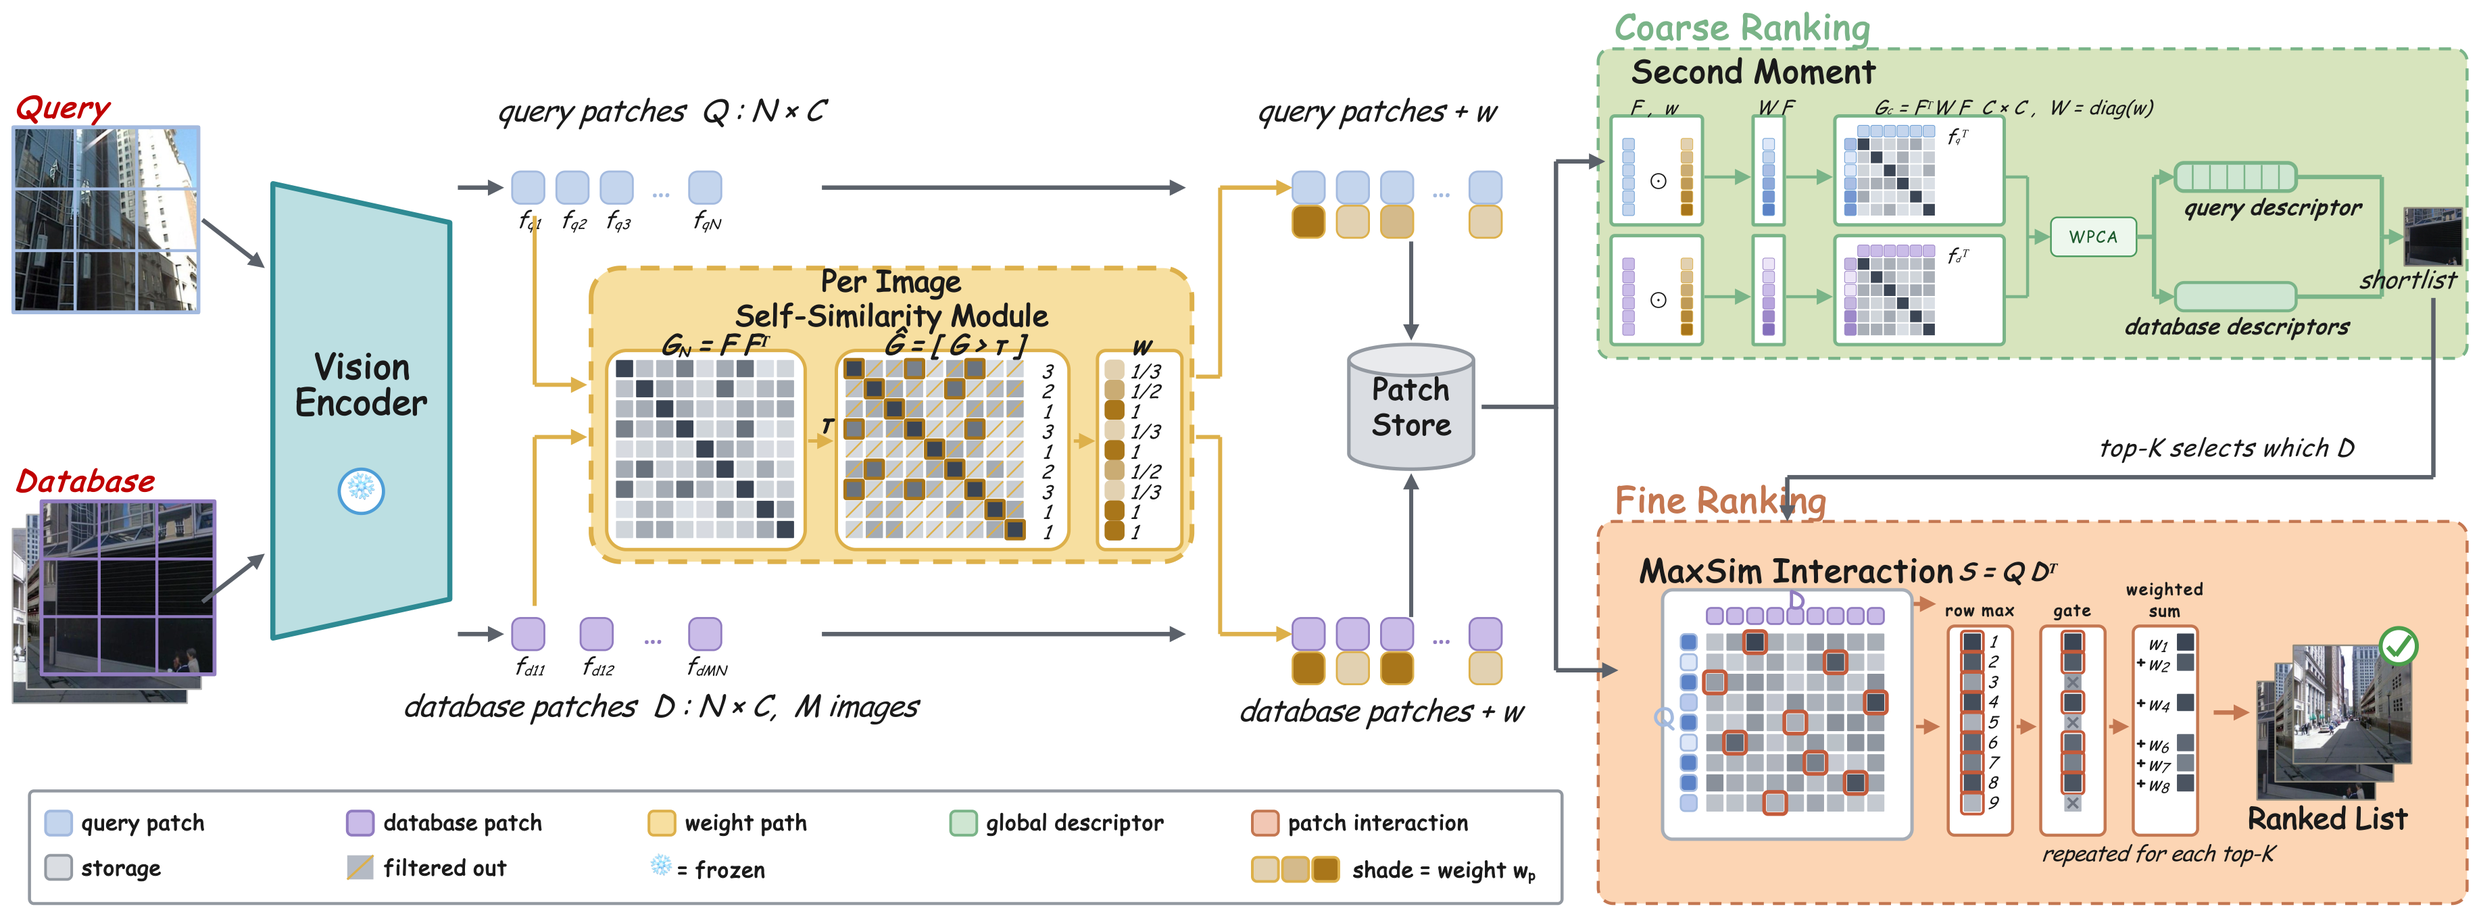
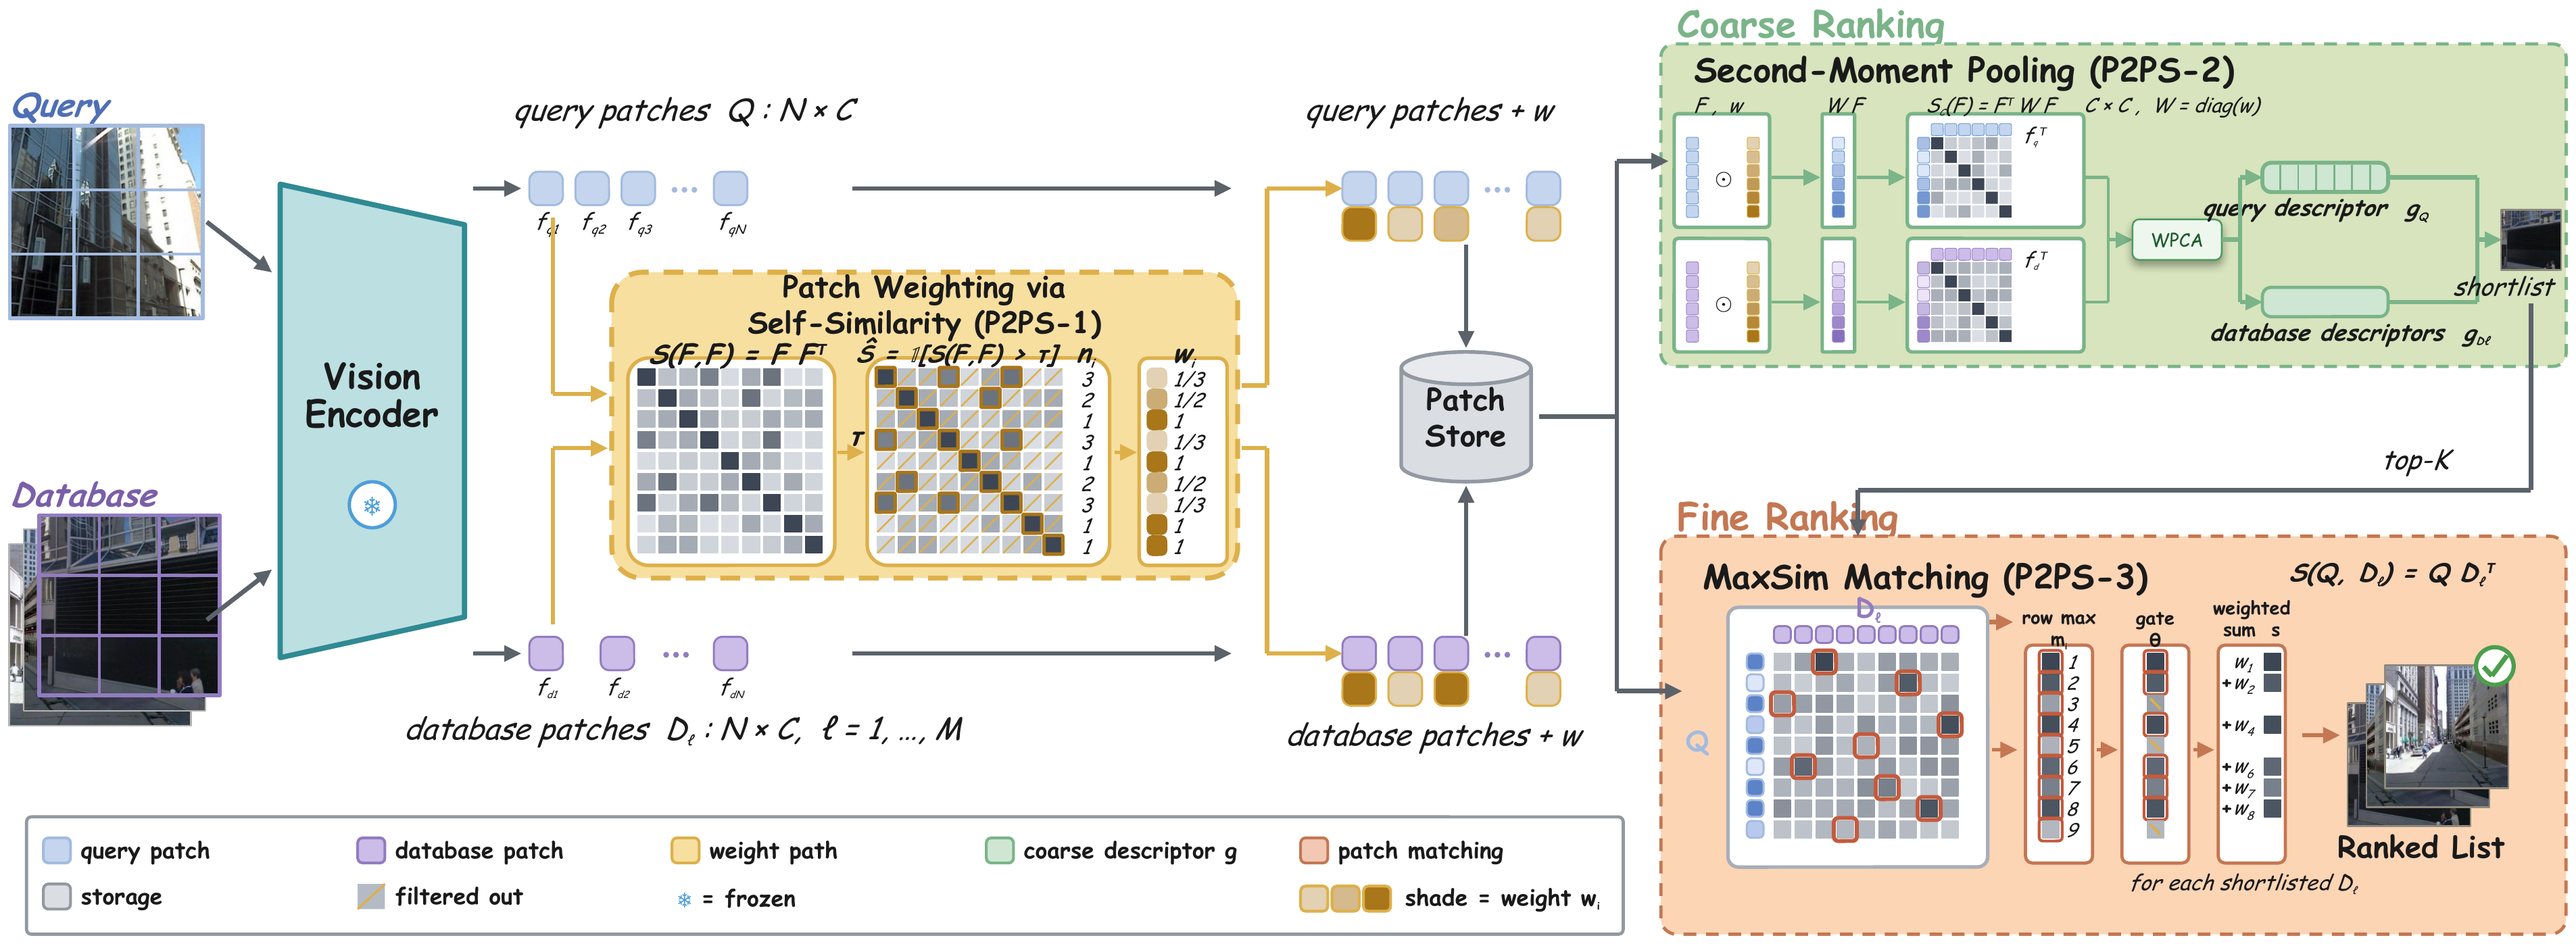
Figure 2: labels aligned with the method notation (S(F,F), Ŝ, n_i, S_C(F), S(Q,D_l), P2PS-1/2/3 tags, colours); caption rewritten, no bold title; 'interactions' -> 'correlations'

diff --git a/notes/new2/03_method_new2.tex b/notes/new2/03_method_new2.tex
@@ -74,7 +74,7 @@
 \begin{figure}[!htb]
 \centering
 \includegraphics[width=0.92\textwidth]{figures/method_fig_ppt.png}
-\caption{\textbf{Overview of the proposed method.} Each image is partitioned into patches, whose features are extracted by a frozen vision encoder. The patch-to-patch similarity (P2PS) template is applied in three forms: P2PS-1 computes the self-similarity of each image to obtain its patch weights; P2PS-2 pools the weighted patch features into a second-moment descriptor for coarse ranking; P2PS-3 performs \textsc{MaxSim} matching between the query and the top-$K$ candidates for fine ranking.}
+\caption{Overview of the proposed method. Each image is partitioned into patches, whose features are extracted by a frozen vision encoder, and the patch-to-patch similarity (P2PS) template is applied in three forms. P2PS-1 computes the self-similarity of each image, which gives the weight of every patch; features and weights are computed once and stored for both stages. P2PS-2 pools the weighted patch features into a second-moment matrix, reduced by whitened PCA to one descriptor per image, and coarse ranking shortlists the $K$ nearest database images. P2PS-3 performs weighted \textsc{MaxSim} matching between the query and each shortlisted image, and fine ranking sorts the shortlist by the matching score.}
 \label{fig:method}
 \end{figure}
 
@@ -121,7 +121,7 @@ Two-stage retrieval is standard in VPR \citep{patchnetvlad,r2former,selavpr}, bu
 
 \paragraph{Coarse Ranking (P2PS-2).}
 \label{sec:global}
-During coarse ranking, the query is compared with the whole database $\mathcal D$ to obtain the $K$ most similar images, the shortlist, which requires a compact descriptor for every image. We obtain this descriptor by weighted second-moment pooling of the patch features, the bilinear pooling of \citet{bcnn}, which captures pairwise interactions between feature channels. Given the patch feature matrix $F$ of an image and its patch weights $\mathbf w$ from P2PS-1, Eq.~(\ref{eq:weight}), let $W=\mathrm{diag}(\mathbf w)$. Setting $A=B=(W^{1/2}F)^{\top}$ in Eq.~(\ref{eq:p2ps}), that is, applying the P2PS template along the channel dimension of the weighted patch features, gives the $C\times C$ second-moment matrix of the image, denoted $S_C(F)$,
+During coarse ranking, the query is compared with the whole database $\mathcal D$ to obtain the $K$ most similar images, the shortlist, which requires a compact descriptor for every image. We obtain this descriptor by weighted second-moment pooling of the patch features, the bilinear pooling of \citet{bcnn}, which captures pairwise correlations between feature channels. Given the patch feature matrix $F$ of an image and its patch weights $\mathbf w$ from P2PS-1, Eq.~(\ref{eq:weight}), let $W=\mathrm{diag}(\mathbf w)$. Setting $A=B=(W^{1/2}F)^{\top}$ in Eq.~(\ref{eq:p2ps}), that is, applying the P2PS template along the channel dimension of the weighted patch features, gives the $C\times C$ second-moment matrix of the image, denoted $S_C(F)$,
 \begin{equation}\label{eq:gc}
   S_C(F)=S\big((W^{1/2}F)^{\top},(W^{1/2}F)^{\top}\big)=F^{\top}WF=\sum_{i=1}^{N} w_i\,\mathbf f_i\mathbf f_i^{\top}.
 \end{equation}

diff --git a/sections/03_method.tex b/sections/03_method.tex
@@ -4,7 +4,7 @@
 \begin{figure}[!htb]
 \centering
 \includegraphics[width=0.92\textwidth]{figures/method_fig_ppt.png}
-\caption{\textbf{Overview of the proposed method.} Each image is partitioned into patches, whose features are extracted by a frozen vision encoder. The patch-to-patch similarity (P2PS) template is applied in three forms: P2PS-1 computes the self-similarity of each image to obtain its patch weights; P2PS-2 pools the weighted patch features into a second-moment descriptor for coarse ranking; P2PS-3 performs \textsc{MaxSim} matching between the query and the top-$K$ candidates for fine ranking.}
+\caption{Overview of the proposed method. Each image is partitioned into patches, whose features are extracted by a frozen vision encoder, and the patch-to-patch similarity (P2PS) template is applied in three forms. P2PS-1 computes the self-similarity of each image, which gives the weight of every patch; features and weights are computed once and stored for both stages. P2PS-2 pools the weighted patch features into a second-moment matrix, reduced by whitened PCA to one descriptor per image, and coarse ranking shortlists the $K$ nearest database images. P2PS-3 performs weighted \textsc{MaxSim} matching between the query and each shortlisted image, and fine ranking sorts the shortlist by the matching score.}
 \label{fig:method}
 \end{figure}
 
@@ -51,7 +51,7 @@ Two-stage retrieval is standard in VPR \citep{patchnetvlad,r2former,selavpr}, bu
 
 \paragraph{Coarse Ranking (P2PS-2).}
 \label{sec:global}
-During coarse ranking, the query is compared with the whole database $\mathcal D$ to obtain the $K$ most similar images, the shortlist, which requires a compact descriptor for every image. We obtain this descriptor by weighted second-moment pooling of the patch features, the bilinear pooling of \citet{bcnn}, which captures pairwise interactions between feature channels. Given the patch feature matrix $F$ of an image and its patch weights $\mathbf w$ from P2PS-1, Eq.~(\ref{eq:weight}), let $W=\mathrm{diag}(\mathbf w)$. Setting $A=B=(W^{1/2}F)^{\top}$ in Eq.~(\ref{eq:p2ps}), that is, applying the P2PS template along the channel dimension of the weighted patch features, gives the $C\times C$ second-moment matrix of the image, denoted $S_C(F)$,
+During coarse ranking, the query is compared with the whole database $\mathcal D$ to obtain the $K$ most similar images, the shortlist, which requires a compact descriptor for every image. We obtain this descriptor by weighted second-moment pooling of the patch features, the bilinear pooling of \citet{bcnn}, which captures pairwise correlations between feature channels. Given the patch feature matrix $F$ of an image and its patch weights $\mathbf w$ from P2PS-1, Eq.~(\ref{eq:weight}), let $W=\mathrm{diag}(\mathbf w)$. Setting $A=B=(W^{1/2}F)^{\top}$ in Eq.~(\ref{eq:p2ps}), that is, applying the P2PS template along the channel dimension of the weighted patch features, gives the $C\times C$ second-moment matrix of the image, denoted $S_C(F)$,
 \begin{equation}\label{eq:gc}
   S_C(F)=S\big((W^{1/2}F)^{\top},(W^{1/2}F)^{\top}\big)=F^{\top}WF=\sum_{i=1}^{N} w_i\,\mathbf f_i\mathbf f_i^{\top}.
 \end{equation}
